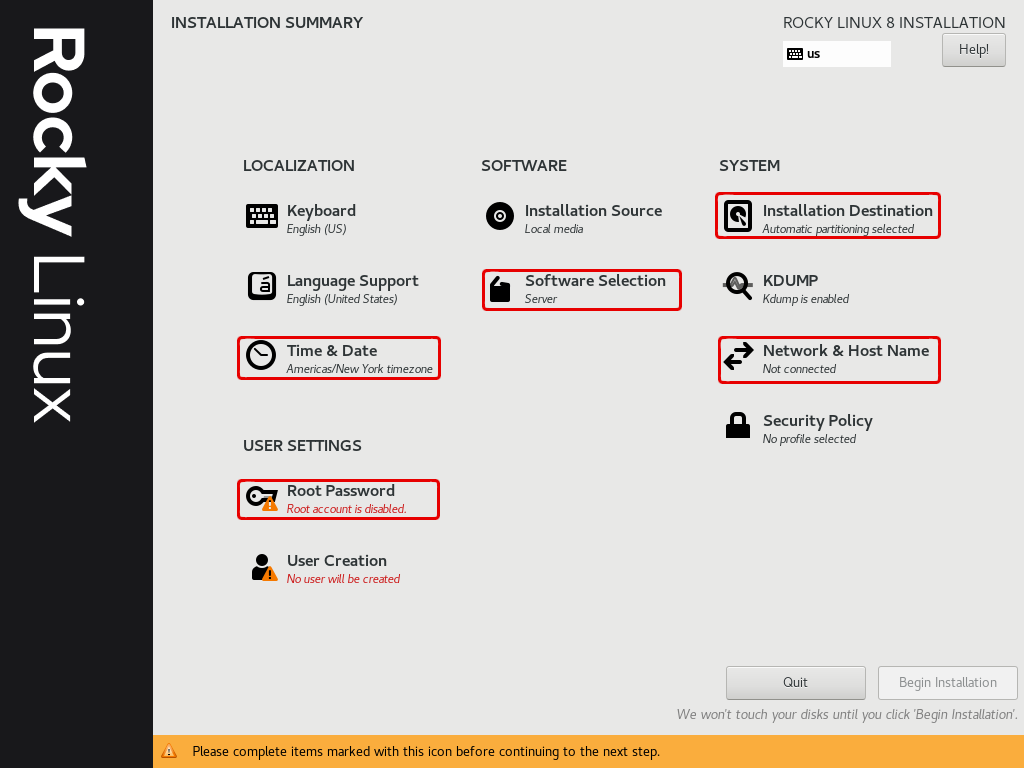
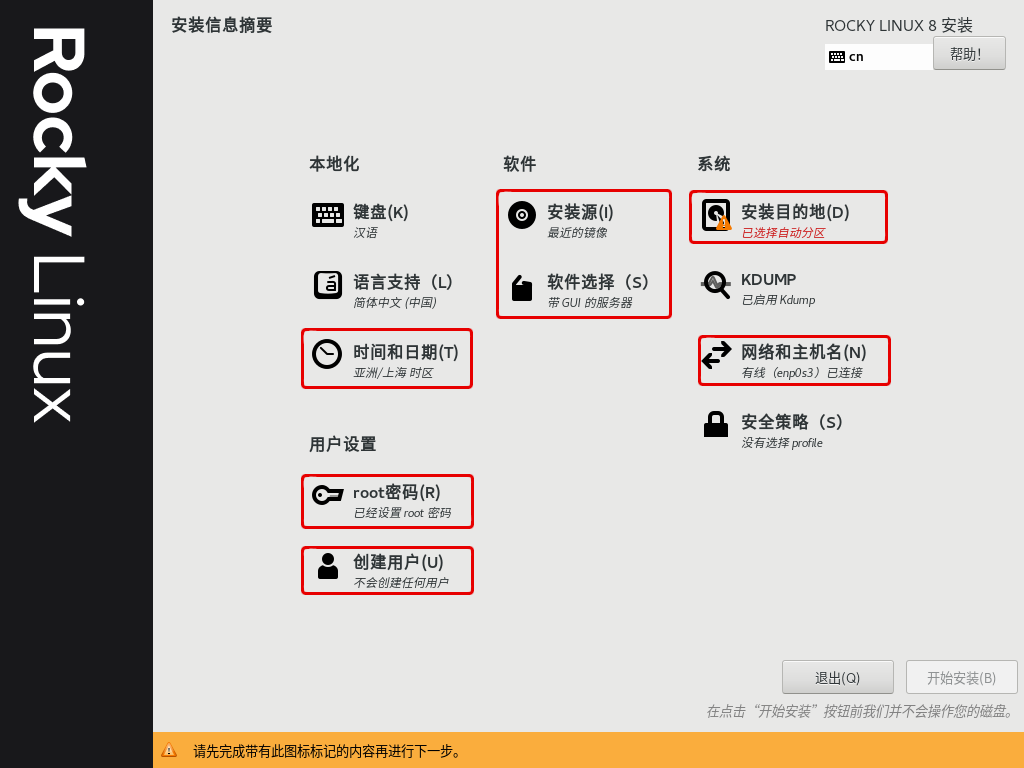
updated

diff --git a/Notes/About-Linux.md b/Notes/About-Linux.md
@@ -4,6 +4,8 @@
 
 ## 简述
 
+<img src="images/linux.png" style="zoom: 30%; " />
+
 Linux 是一种自由和开放源码的类 UNIX 操作系统。该操作系统的内核由林纳斯·托瓦兹在1991年10月5日首次发布，再加上用户空间的应用程序之后，就成为了 Linux 操作系统。
 
 Linux 也是自由软件和开放源代码软件发展中最著名的例子。
@@ -17,20 +19,21 @@ Linux 发行版指的就是所谓的 Linux 操作系统。它由 Linux 内核、
 
 目前使用较为广泛的 Linux 发行版有以下：
 
-- [Debian](https://www.debian.org/)
-	- [Ubuntu](https://ubuntu.com/)：主流的操作系统，适合应用于云计算、服务器等领域
-	- [Deepin](https://www.deepin.org/)：国内自主的
-	- [Kali](https://www.kali.org/)
-	- [Linux Mint](https://linuxmint.com/)
-	- [Zorin OS](https://zorin.com/os/)
-- [Fedora](https://getfedora.org/)
-	- [CentOS](https://www.centos.org/)
-	- [Red Hat Enterprise Linux](https://www.redhat.com/en/technologies/linux-platforms/enterprise-linux)
-	- [Rocky Linux](https://rockylinux.org/)
-- [Arch Linux](https://archlinux.org/)
-	- [Manjaro Linux](https://manjaro.org/)
-- [SUSE](https://www.suse.com/)
-  - [openSUSE](https://www.opensuse.org/)
+- [Debian](https://www.debian.org/)：完全由自由软件组成的类 UNIX 操作系统**（原始）**
+	- [Ubuntu](https://ubuntu.com/)：主流的 Linux 发行版
+	  - [Linux Mint](https://linuxmint.com/)：易于使用、且开箱即用的 Linux 发行版
+	  - [Zorin OS](https://zorin.com/os/)：易于使用且最接近 Windows 的 Linux 发行版
+	- [Deepin](https://www.deepin.org/)：国内自主研发的 Linux 发行版，适配了国内大多数的必备软件，适合国人使用
+	- [Kali](https://www.kali.org/)：一个专为黑客使用的 Linux 发行版
+	- [SteamOS](https://store.steampowered.com/steamos/)：一个专为游戏玩家开发的 Linux 发行版
+- [Fedora](https://getfedora.org/)：是一套功能完备、更新快速的免费 Linux 发行版，且是商业化的 RHEL 发行版的上游源码
+	- [Red Hat Enterprise Linux](https://www.redhat.com/en/technologies/linux-platforms/enterprise-linux)（RHEL）：面向企业的商业化 Linux 发行版，有付费订阅机制以管理软件包更新安装、维护系统稳定运行
+	  - [CentOS](https://www.centos.org/)：基于 RHEL 发行版，是免费且成本最低的发行版，在服务器领域较为广泛，适用于大多数中小型企业使用
+	  - [Rocky Linux](https://rockylinux.org/)：旨在成为一个使用 RHEL 发行版源代码的完整的下游二进制兼容版本。该项目提供一个由社区支持且可用于生产的企业操作系统。是企业的另一热门选择
+- [Arch Linux](https://archlinux.org/)：是一个简洁且自由的 Linux 发行版，适合**“不惧怕命令行的 中高级 Linux 玩家”**
+	- [Manjaro Linux](https://manjaro.org/)：基于 Arch Linux 发行版，简化了安装系统的过程。适合中级 Linux 玩家
+- [openSUSE](https://www.suse.com/)：一个 Linux 新手较为友好的 Linux 发行版，拥有易于使用的桌面环境和功能丰富的服务器环境
+  - [SUSE Linux Enterprise](https://www.opensuse.org/)：企业级 Linux 发行版
 
 
 > 💡 **提示**
@@ -43,7 +46,7 @@ Linux 发行版指的就是所谓的 Linux 操作系统。它由 Linux 内核、
 
 ### 1、服务器
 
-现如今，大多数服务器使用 Linux 操作系统，并且在计算机领域中占据着非常重要的地位。
+现如今，大多数服务器使用 Linux 发行版，并且在计算机领域中占据着非常重要的地位。
 
 Linux 发行版是构成 LAMP（Linux 操作系统，Apache，MySQL，Perl / PHP / Python）的重要部分，LAMP 是一个常见的网站托管平台，在开发者中已经得到普及。
 

diff --git a/Notes/Starter/1-Prepare.md b/Notes/Starter/1-Prepare.md
@@ -22,14 +22,18 @@
 
 #### Step 3：创建与配置虚拟机
 
-这里就以 Oracle VM VirtualBox 7.0.6 为例
+这里就以使用 Oracle VM VirtualBox 7.0.6 安装配置虚拟机为例
 
 1) 打开软件，选择【新建】。
    ![](../images/vbox_step1.png)
 
-2. 在此对话框下，输入【虚拟机名称】（**名字尽量起英文名**）。
+2. 在此对话框下，在【Name】项输入虚拟机名称（**名字尽量起英文名**）
    ![](../images/vbox_step2.png)
-
+   
+   > ❗ **注意**
+   > 
+   > 在 Windows 操作系统下，请务必在【Folder】项修改自己的虚拟机保存位置，以免出现C盘空间不足的情况
+   
 3. 选择适合的内存大小，这里建议选择 2GB （即 2048 MB）
    ![](../images/vbox_step3.png)
 
@@ -39,8 +43,15 @@
 
 4. 创建虚拟硬盘，并设置硬盘空间大小。
    ![](../images/vbox_step4.png)
+   
+5. 最终确认自己配置的虚拟机信息
+   ![](../images/vbox_step5.png)
 
+6. 完成之后点击【启动】，即可开启虚拟机
+   ![](../images/vbox_step6.png)
 
+7. 启动后，出现如下对话框，选择自己下载好的安装镜像并载入；完成后，点击【Mount and Retry Boot】。重新启动后即可进入系统安装界面
+   ![](../images/vbox_step7.png)
 
 ### <a name="m1">Method 2: 双系统安装</a>
 
@@ -117,8 +128,6 @@
 
 
 
-
-
 ### <a name="m3">Method 3: 搭建并使用 WSL 环境</a>
 
 > 📚 **扩展**
@@ -135,7 +144,48 @@
 
 ## 2、安装 Linux 操作系统
 
-由于每个 Linux 发行版都有属于自己的安装程序。此节就以安装 Rocky Linux（基于 Red Hat Enterprise Linux）为例。
+由于每个 Linux 发行版都有属于自己的安装程序。此节就以安装 [Rocky Linux](../About-Linux.md) 及桌面环境为例。
 
+1. 在启动界面下，使用方向键选择【Install Rocky Linux 8】并按下 <kbd>Enter</kbd> 键
+   ![](../images/install_bios.png)
 
+   > 💡 **提示**
+   >
+   > 使用 EFI 与 BIOS 启动时，Grub 引导菜单界面有所不同，下图为 EFI 启动时的引导画面
+   >
+   > <img src="../images/install_efi.png" style="zoom: 75%;" />
+   
+2. 等待进入系统并载入安装程序界面，在此界面下，选择语言。
+   ![](../images/install_step1.png)
 
+   
+
+3. 点击下一步后，在【安装信息概要】界面下，建议做好以下配置，如下图：
+   <img src="../images/install_step2.png" style="zoom:80%;" />
+
+4. 首先在【时间和日期】下，选择亚洲/上海作为默认时区
+   <img src="../images/install_step5.png" style="zoom:80%;" />
+
+5. 选择【网络和主机名】，将默认的网络打开
+   <img src="../images/install_step3_1.png" style="zoom:80%;" />
+
+6. 选择【安装源】，并选择【在网络上】，选择【最近的镜像】，点击【完成】即可。这里需要等待一段时间
+   <img src="../images/install_step3_2.png" style="zoom: 80%;" />
+
+7. 选择【软件选择】，在这里可以根据自己的情况及需求选择要预装的软件，这里就选择【带 GUI 的服务器】，其它选项不变
+   <img src="../images/install_step3_3.png" style="zoom:80%;" />
+
+8. 选择【安装目标位置】，在此处选择要安装的硬盘，点击之后完成即可
+   <img src="../images/install_step4.png" style="zoom:80%;" />
+   
+9. 选择【ROOT 密码】，在此处设置 Root 用户密码 
+   <img src="../images/install_step6_1.png" style="zoom:80%;" />
+
+10. 创建普通用户，这里最好设置为管理员身份，以更方便地管理系统操作
+   <img src="../images/install_step6_2.png" style="zoom:80%;" />
+
+11. 完成以上操作，点击【开始安装】。
+
+    <img src="../images/install_step7.png" style="zoom:80%;" />
+
+12. 等待完成后，点击【重启系统】完成安装

diff --git a/Notes/Extra/Shell-Command.md b/Notes/Extra/Shell-Command.md
@@ -90,5 +90,5 @@
 | 查看物理网卡 IP 地址 | `ip addr`                                                    | 此命令可直接简写为 `ip a`                                    |
 |   查看物理网卡配置   | 1. `ifconfig`<br/>2. `ifconfig <网卡名>`<br/><br />          | 1. 显示所有网卡配置<br/>2. 显示指定网卡配置<br />❗：若无法执行此指令，请下载安装 `net-tools` 软件包 |
 |     文件下载工具     | `wget <file_url>`                                            | 从某个 url 中下载文件到当前工作路径                          |
-|       SSH 连接       | `ssh username@<hostname / ip地址> [-p <22 / 指定端口号>]`    | 使用 SSH 方式连接远程主机，其中的 22 端口为 SSH 默认端口     |
+|       SSH 连接       | `ssh username@<hostname / ip地址> [-p <22 / 指定端口号>]`    | 使用 SSH 方式连接远程主机，<br />`22` 为 SSH 默认端口        |
 |     传输文件工具     | 0. `scp [<用户名>@<主机名/IP地址>:]<需传输的文件目录> <用户名>@<主机名/IP地址>:<目标目录>`<br />1. `scp user@hostA:~/a.txt user@hostB:~/doc`<br />2. `scp test.txt user@hostA:/doc` | 0. 将其中一台主机中的文件或目录传输到另一台主机的目录中<br />1. 将主机`hostA`下的主目录里的 `a.txt` 文件传输到主机 `hostB` 下的 `~/doc` 目录中<br />2. 将自己主机下的当前目录里的 `test.txt` 文件传输到主机 `hostA` 下的`/doc` 目录中 |

diff --git a/Notes/README.md b/Notes/README.md
@@ -47,11 +47,11 @@
 
         开始学习前，先来了解 Linux 
 
-    - [准备 Linux 环境](1-Prepare.md)：
+    - [准备 Linux 环境](Starter/1-Prepare.md)：
 
         从此刻开始搭建 Linux 环境，**没有环境就无法运行 Linux**
 
-    - 学习 Shell 命令：
+    - 入门 Shell：
 
         从这里开始学习 Shell 的基础命令
 
@@ -96,21 +96,6 @@
     - 容器管理
     - 硬盘管理
     - 网络系统
-
-- 按分类找命令
-
-  - 日期 / 时间
-    - date
-    - timedatectl
-    - chrony
-  - 查找与筛选
-    - grep
-    - find
-    - which
-    - whereis
-  - 文本编辑
-    - vim
-    - nano
 
 - **额外内容**
   - [Shell 指令速查表](Extra/Shell-Command.md)
